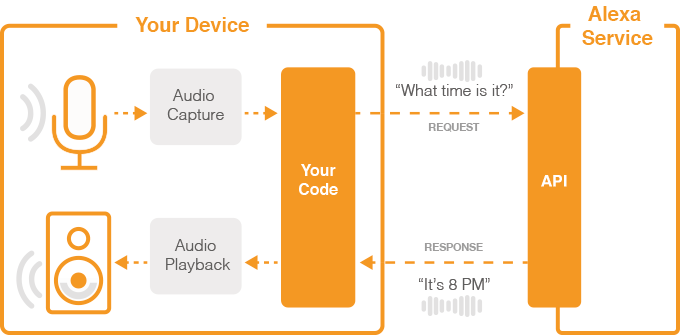
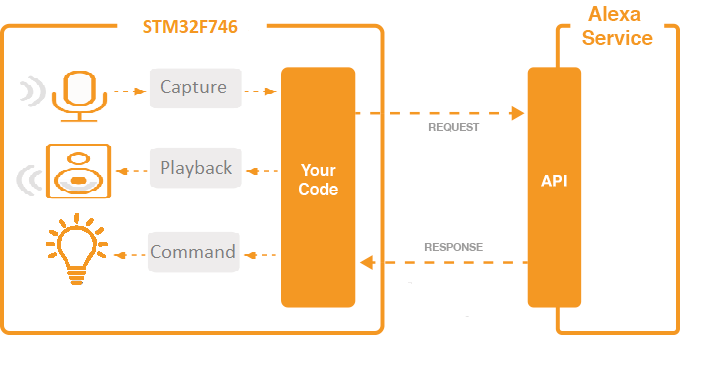
Update Image

Changed region(s): [[0.0, 0.0, 1.0, 1.0], [0.0, 0.1791, 0.2162, 0.5373], [0.1853, 0.209, 0.3397, 0.3582]]

diff --git a/README.md b/README.md
@@ -12,6 +12,10 @@ Dado essa introdução sobre assistentes virtuais e o dispositivo Echo da Amazon
 
 >**Desenvolvimento de um projeto com Alexa embarcada no microcontrolador STM32F746, que possa além de se comunicar com o assistente virtual, também realizar comandos utilizando os periféricos da placa.**
 
+<p align="center">
+  <img src = 'Docs/AVS.PNG' width=800 />
+</p>
+
 ### Etapas do projeto
 
 Devido a complexidade do projeto o trabalho foi dividido e 3 partes:
